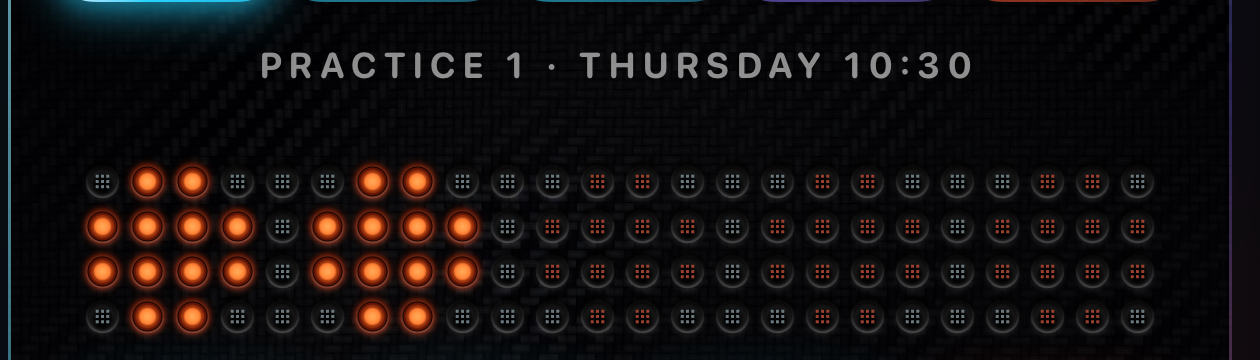
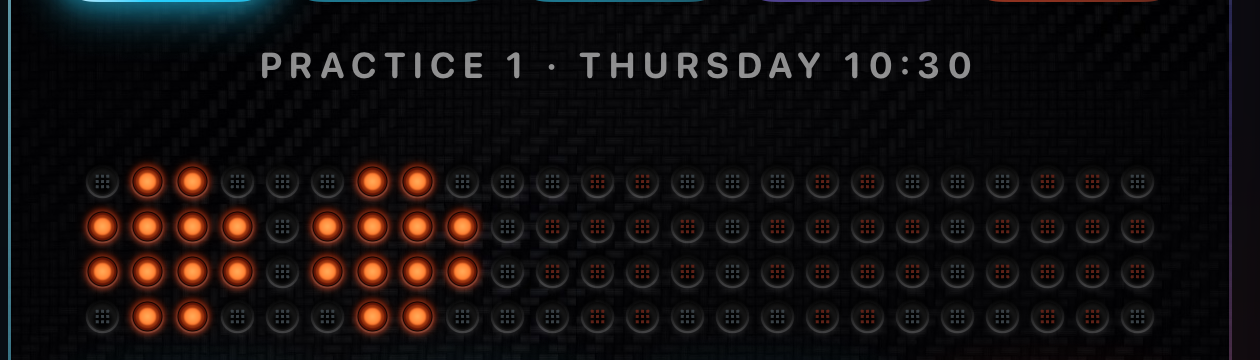
Darker die cells in unlit sockets

diff --git a/TeamRadio/Views/CockpitKit.swift b/TeamRadio/Views/CockpitKit.swift
@@ -259,7 +259,7 @@ struct DotMatrixBoard: View {
                         let key = r * 1000 + c
                         guard lit[key] == nil else { continue }
                         let p = center(c, r)
-                        let tint: Color = armed.contains(key) ? Color(red: 0.6, green: 0.25, blue: 0.18) : Color(red: 0.42, green: 0.47, blue: 0.49)
+                        let tint: Color = armed.contains(key) ? Color(red: 0.36, green: 0.13, blue: 0.09) : Color(red: 0.22, green: 0.25, blue: 0.27)
                         for dx in -1...1 {
                             for dy in -1...1 {
                                 let q = CGPoint(x: p.x + CGFloat(dx) * dieStep, y: p.y + CGFloat(dy) * dieStep)
